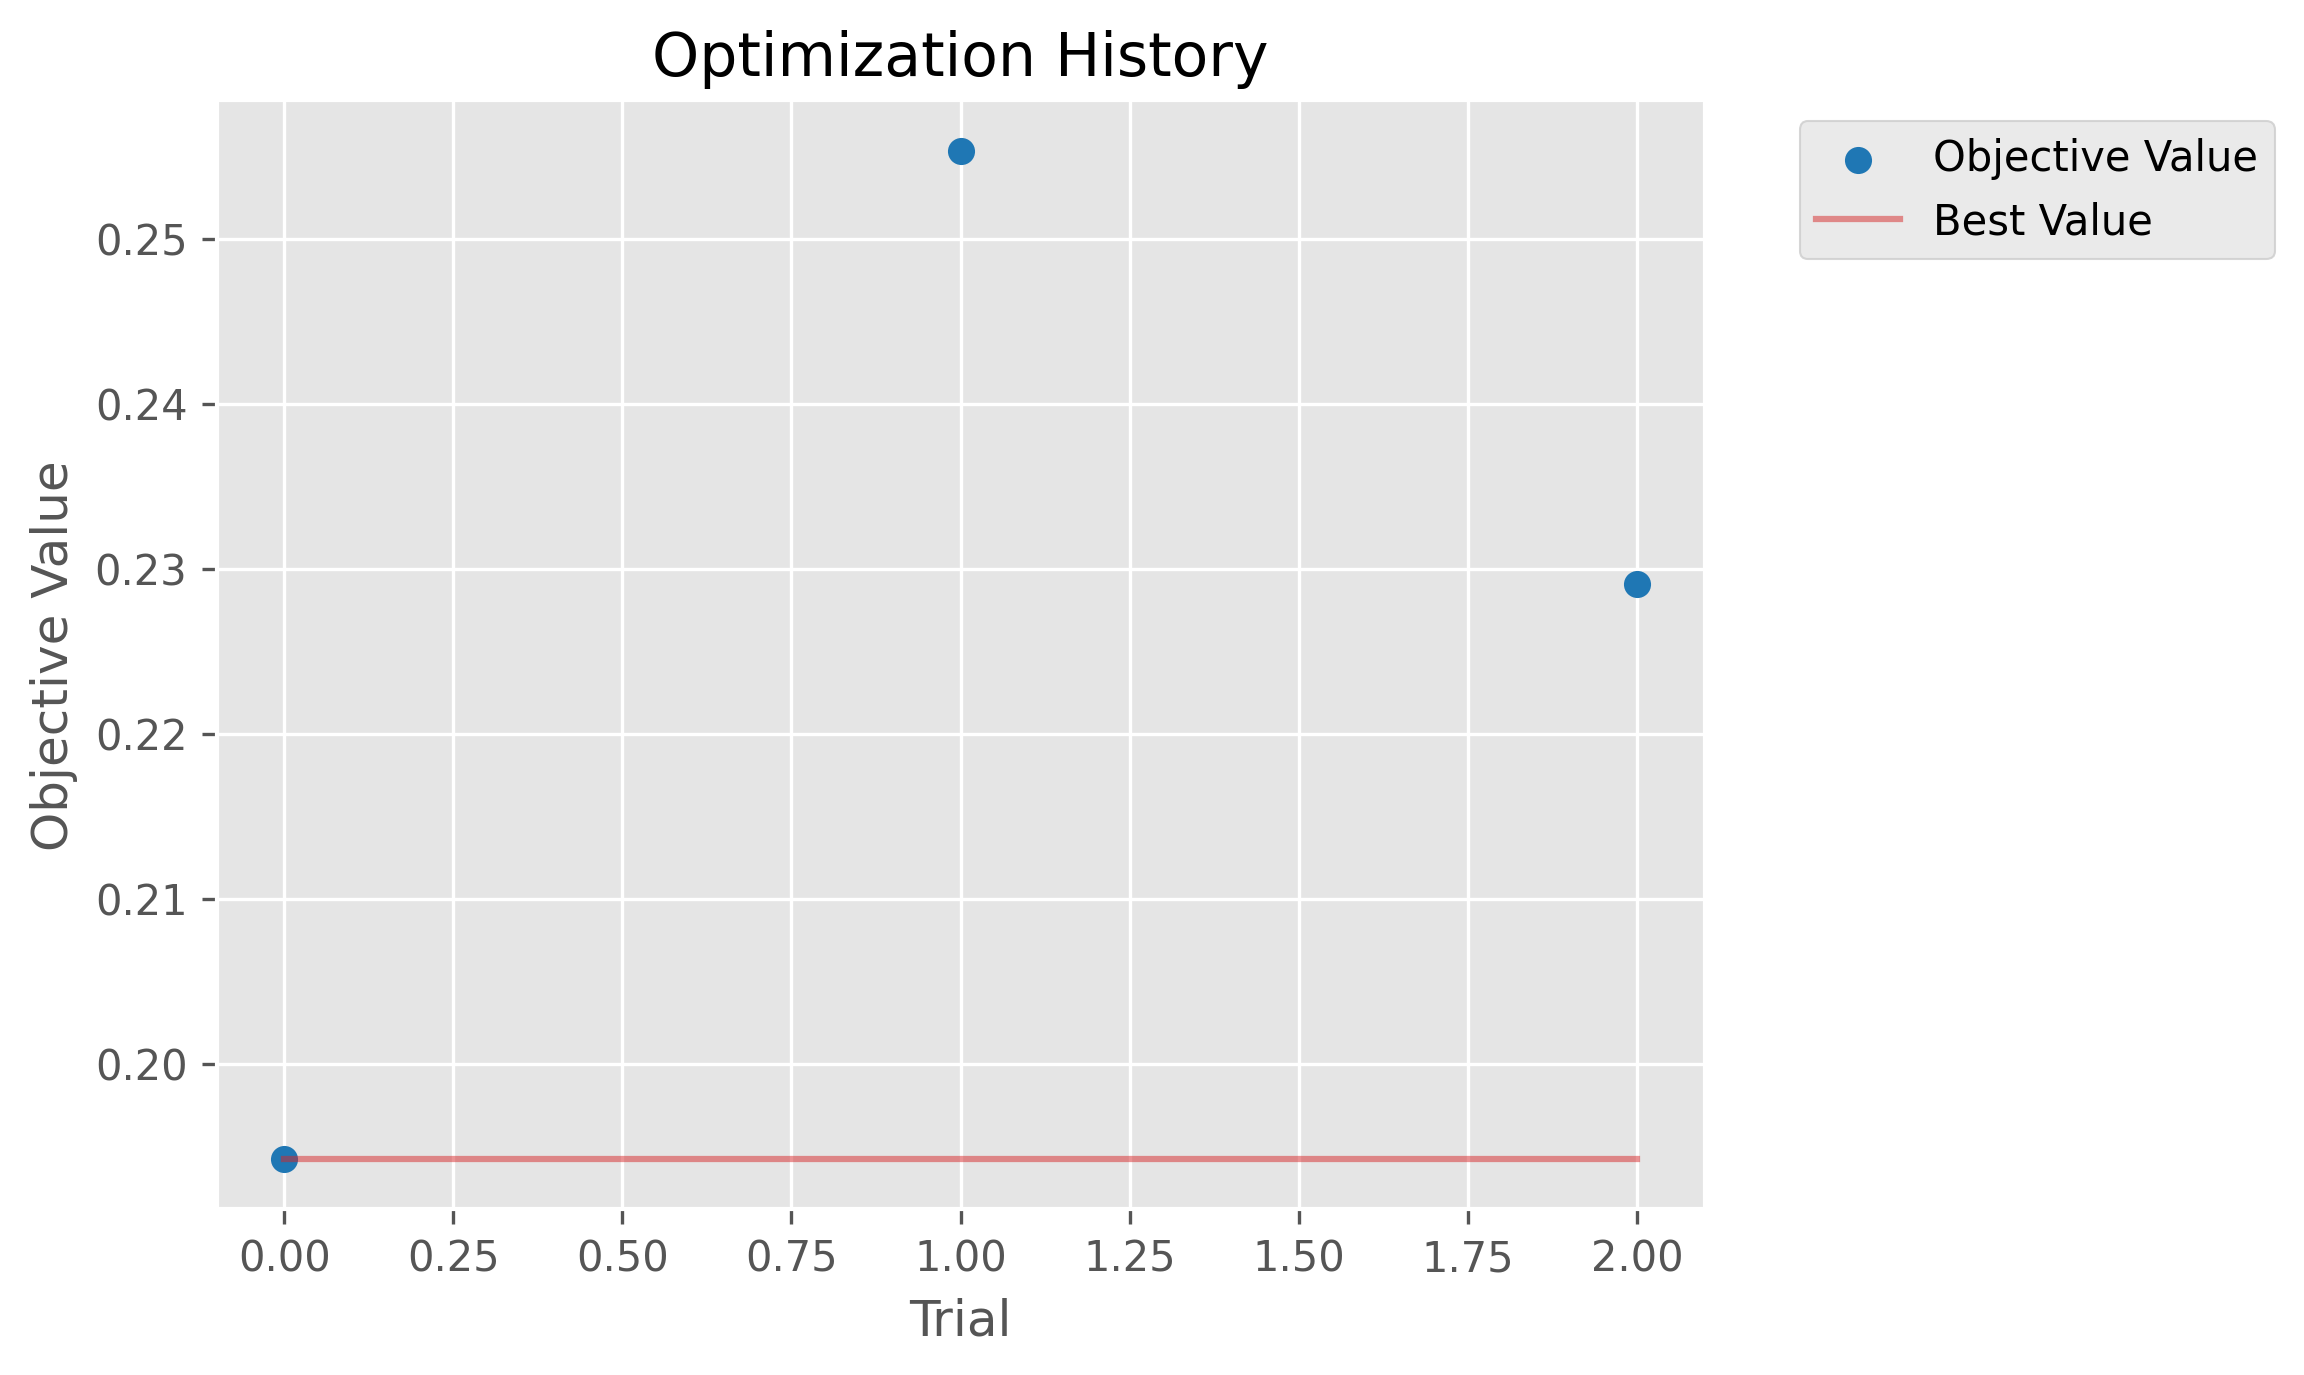
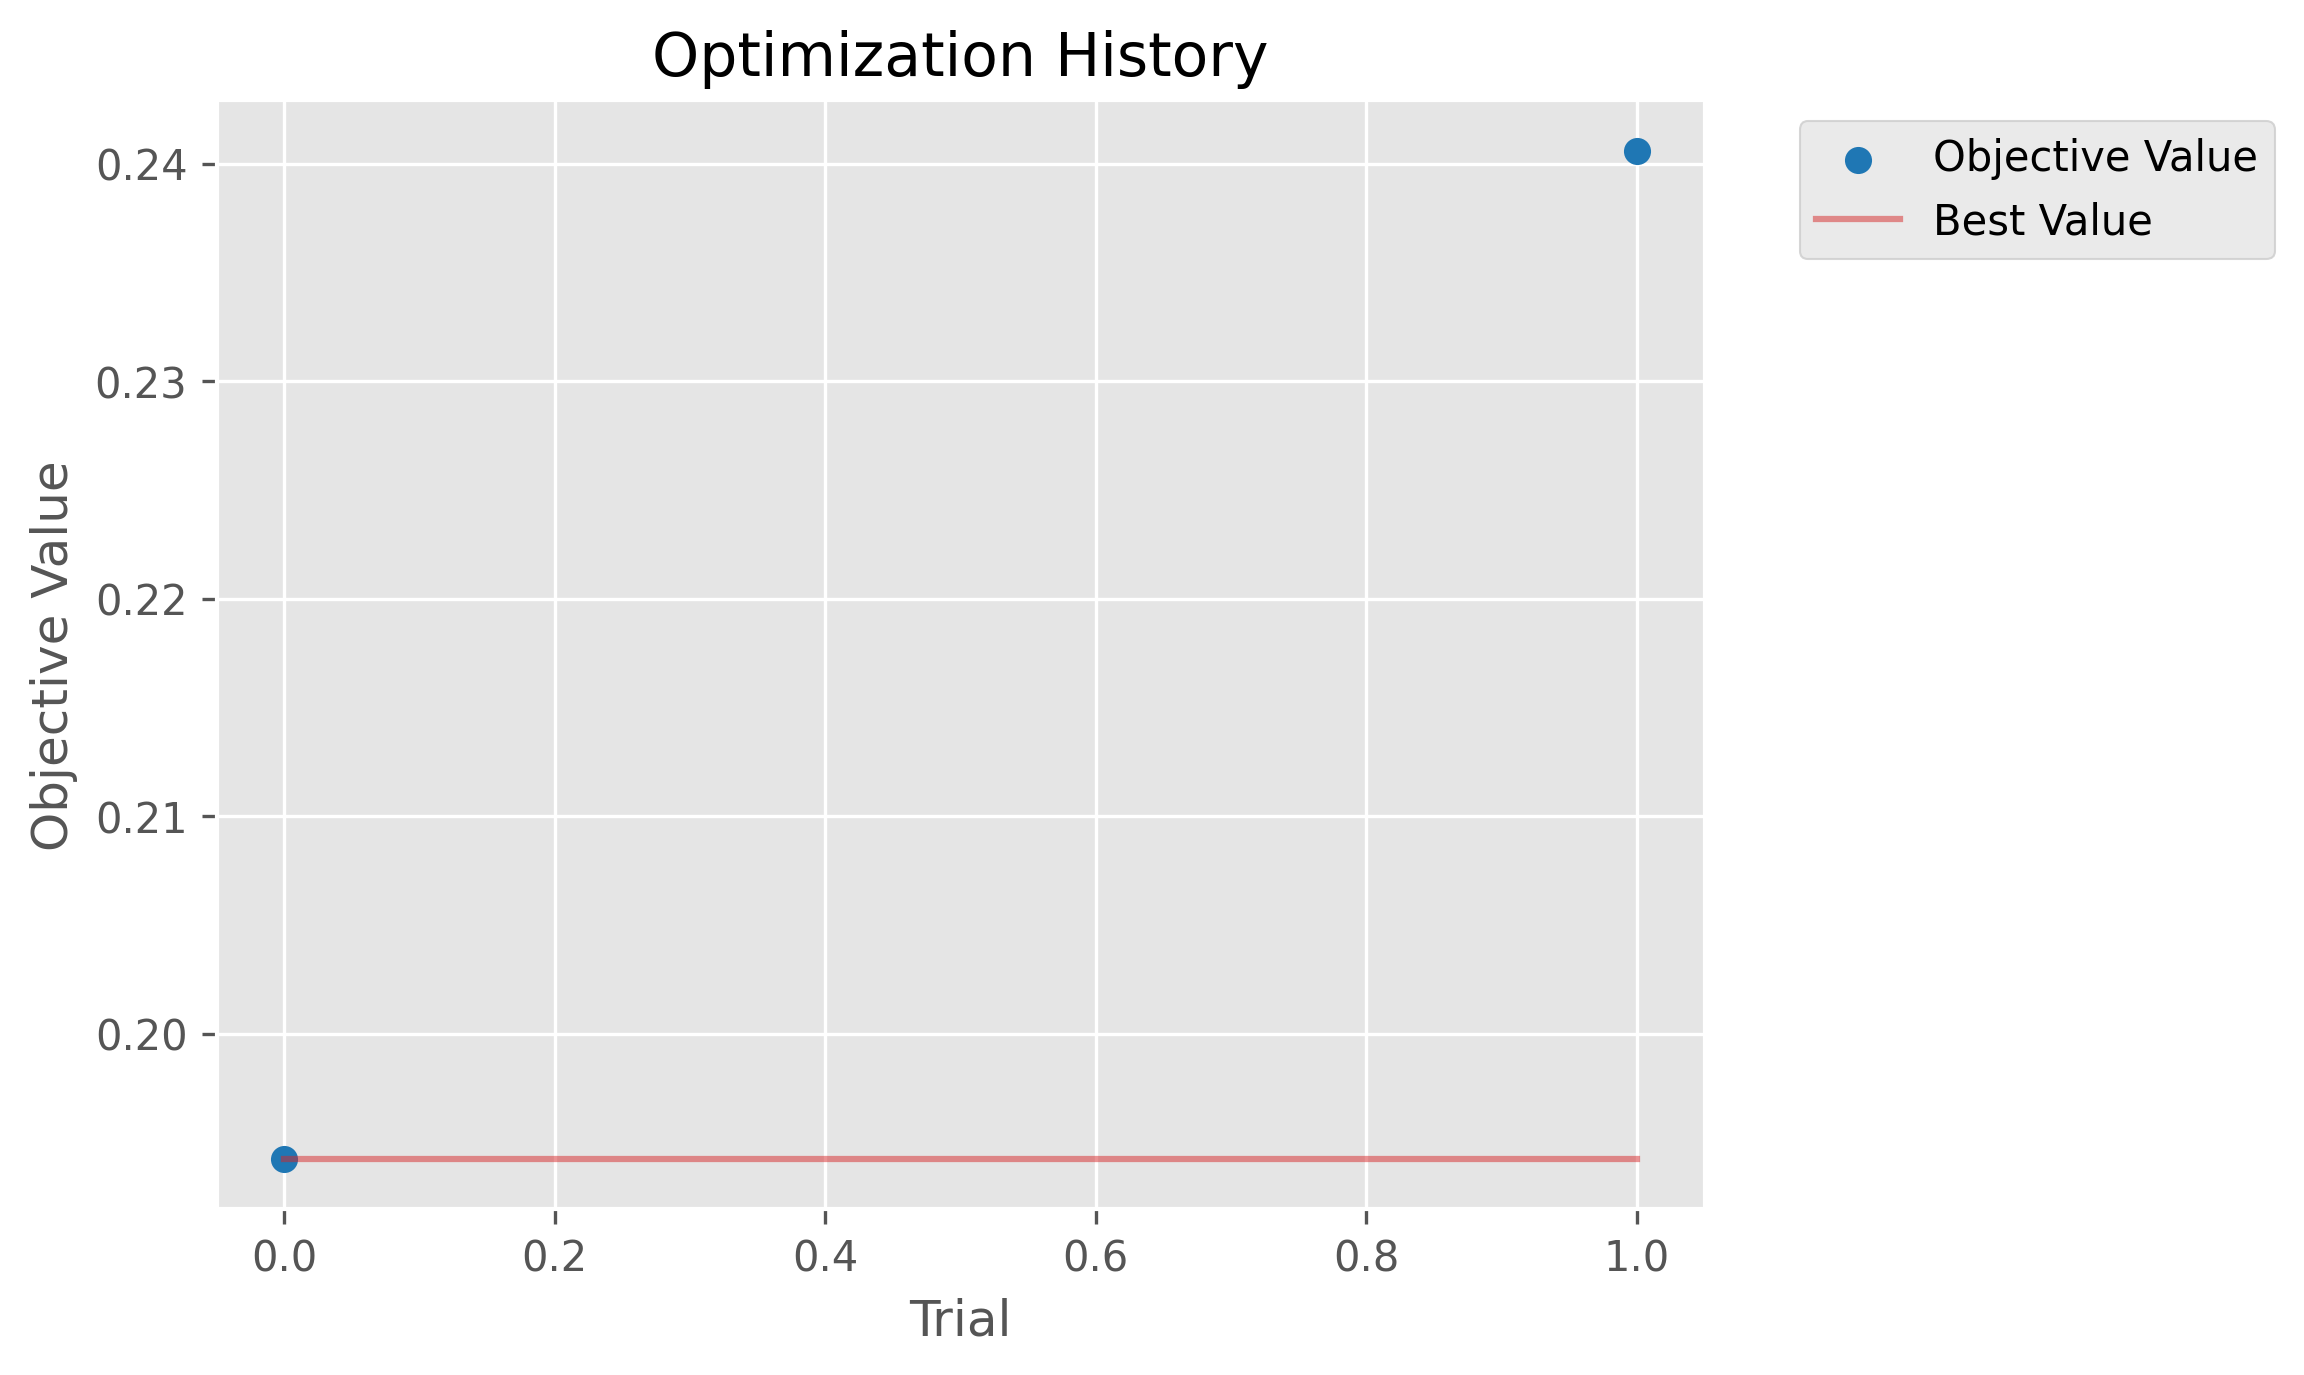
Set random seed set at every evaluation for consistency in metrics with the same hyperparameters; increase optimization trials to 500000

diff --git a/LSTM_LOOCV/LSTM_LOOCV_MAE_OPT.py b/LSTM_LOOCV/LSTM_LOOCV_MAE_OPT.py
@@ -153,6 +153,14 @@ def loocv_evaluation(X, y, hyperparams, verbose=False):
     Returns:
         tuple: (mean_val_loss, std_val_loss, predictions, actuals)
     """
+
+    torch.manual_seed(20)
+    np.random.seed(20)
+    '''
+    if the seed is not set, the metrics results will be different from "training" to the test even though it has the same hyperparameters.
+    this is because the model weights are initialized randomly and the training process is stochastic, if the seed is not set, the state
+    of the random number generator will be different each time, leading to different starting weights.
+    '''
     device = torch.device('cuda' if torch.cuda.is_available() else 'cpu')
 
     loo = LeaveOneOut()
@@ -565,7 +573,7 @@ def main():
     # Run optimization with LOOCV
     study.optimize(
         lambda trial: objective_loocv(trial, X, y),
-        n_trials=22,
+        n_trials=500000,
         timeout=train_timeout
     )
 
